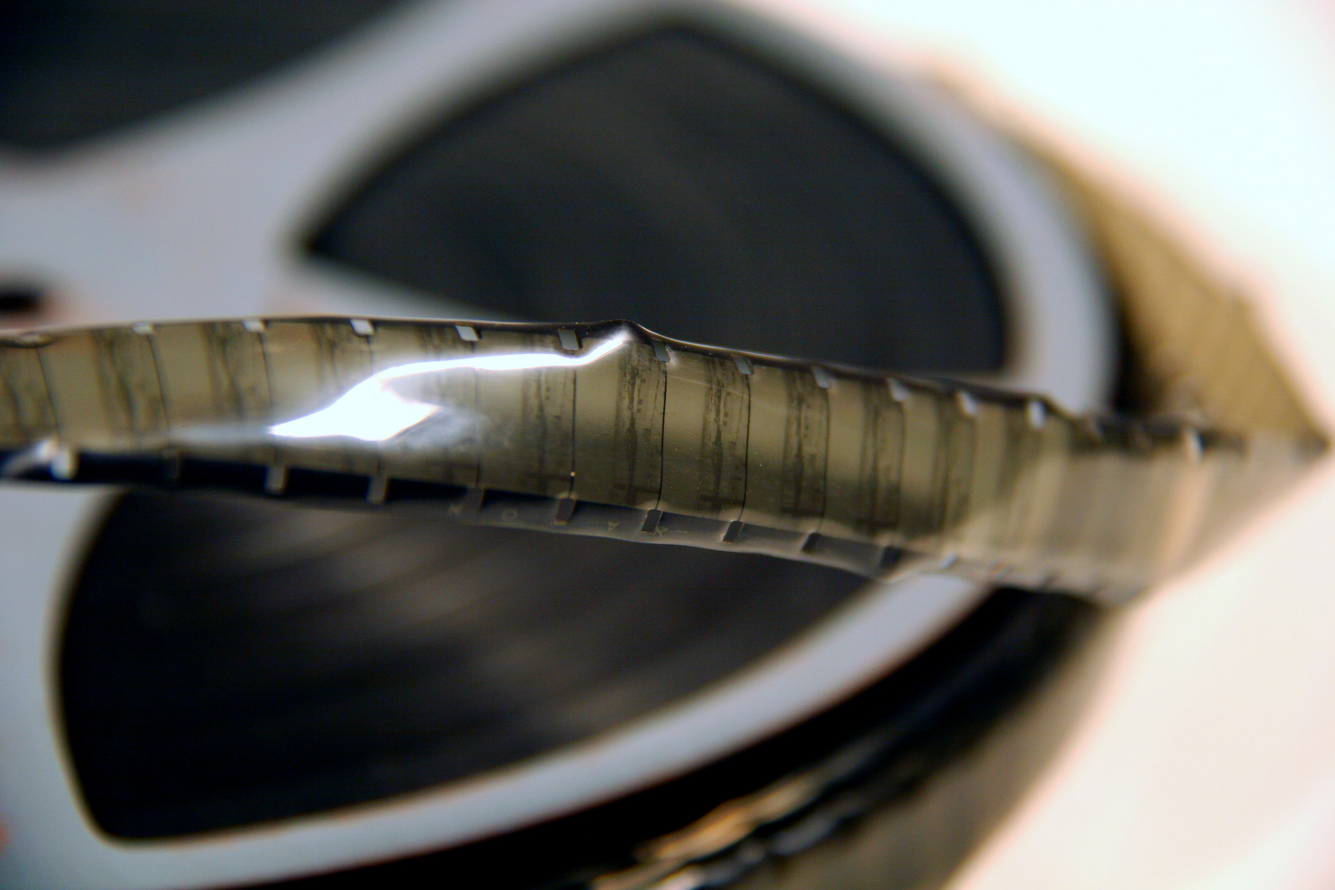
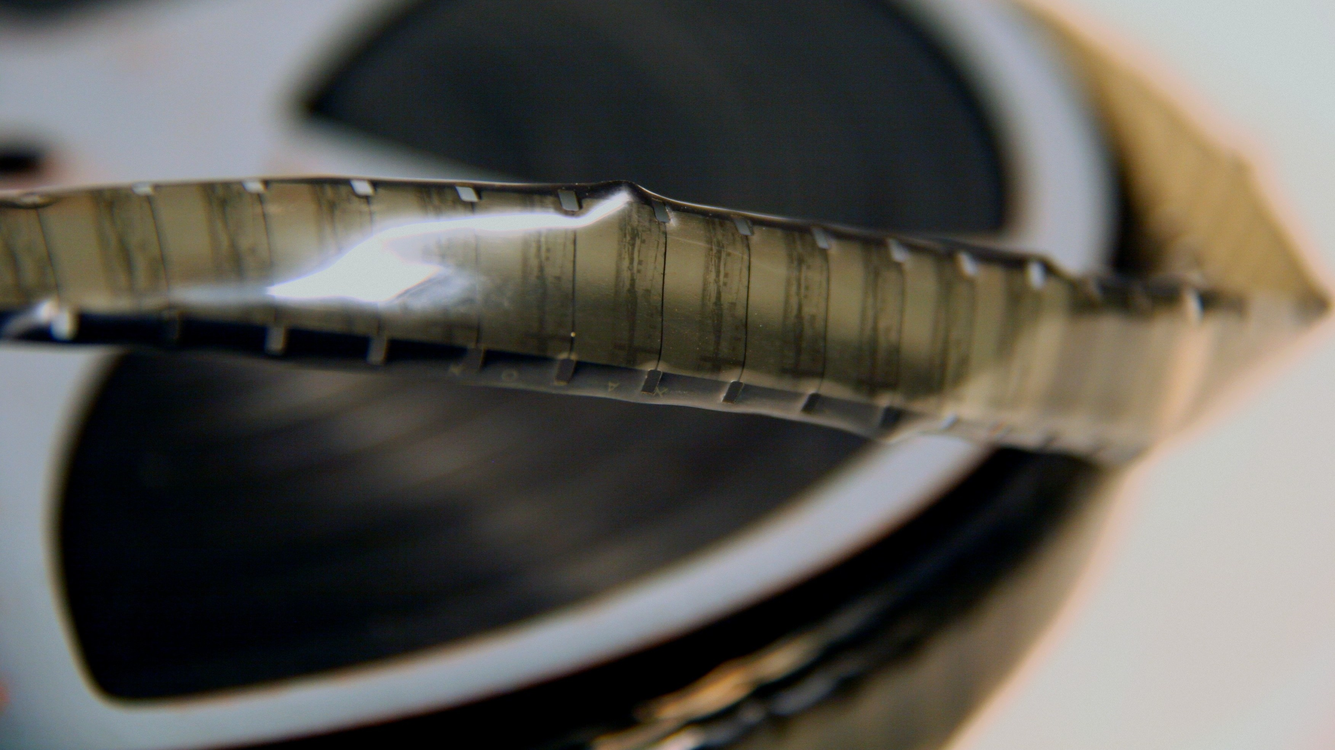
Distressed-film page: 16:9 hero, tamed highlight, bottom-anchored crop
Claude-Session: https://claude.ai/code/session_01PniGQoWiugEcdDwGfpvKKt

diff --git a/build-tier2/shrunken-warped-vinegar-syndrome-film-scanning.html b/build-tier2/shrunken-warped-vinegar-syndrome-film-scanning.html
@@ -38,8 +38,8 @@ nav a{font-size:14px;color:var(--muted);transition:.15s} nav a:hover{color:var(-
 .navtog{display:none;background:none;border:0;color:var(--ink);cursor:pointer;padding:6px;margin:0;line-height:0}@media(max-width:860px){.navtog{display:inline-flex;align-items:center}nav{position:absolute;top:64px;left:0;right:0;flex-direction:column;align-items:stretch;gap:0;background:rgba(12,14,16,.98);border-bottom:1px solid var(--line);padding:6px 0;display:none}header.open nav{display:flex}.nav-links{display:flex;flex-direction:column;gap:0}.nav-links a{padding:15px 24px;font-size:16px}nav>.btn{margin:10px 24px 14px;text-align:center;font-size:15px;padding:13px}}
 
 /* hero */
-.hero{position:relative;min-height:90vh;display:flex;align-items:flex-end;overflow:hidden;background:#0c0e10}
-.hero::before{content:'';position:absolute;inset:0;z-index:0;transform:scaleX(-1);filter:brightness(1.4) contrast(1.02);background:url('images/Vinegar Syndrome 2.jpg') center calc(50% - 150px)/100% auto no-repeat,#0c0e10}
+.hero{position:relative;aspect-ratio:16/9;min-height:420px;display:flex;align-items:flex-end;overflow:hidden;background:#0c0e10}
+.hero::before{content:'';position:absolute;inset:0;z-index:0;transform:scaleX(-1);filter:brightness(1.12) contrast(1.02);background:url('images/Vinegar Syndrome 2.jpg') center center/100% auto no-repeat,#0c0e10}
 .hero::after{content:'';position:absolute;inset:0;z-index:1;background:linear-gradient(0deg,rgba(8,10,11,.75),rgba(8,10,11,0) 55%),linear-gradient(105deg,rgba(8,10,11,.92) 0%,rgba(8,10,11,.6) 38%,rgba(8,10,11,.15) 70%,rgba(8,10,11,.4) 100%)}
 .hero-in{position:relative;z-index:2;padding:0 28px 14px;max-width:1140px;margin:0 auto;width:100%}
 .hero h1{font-size:clamp(2.4rem,6vw,4.6rem);max-width:16ch;margin:18px 0 22px}
